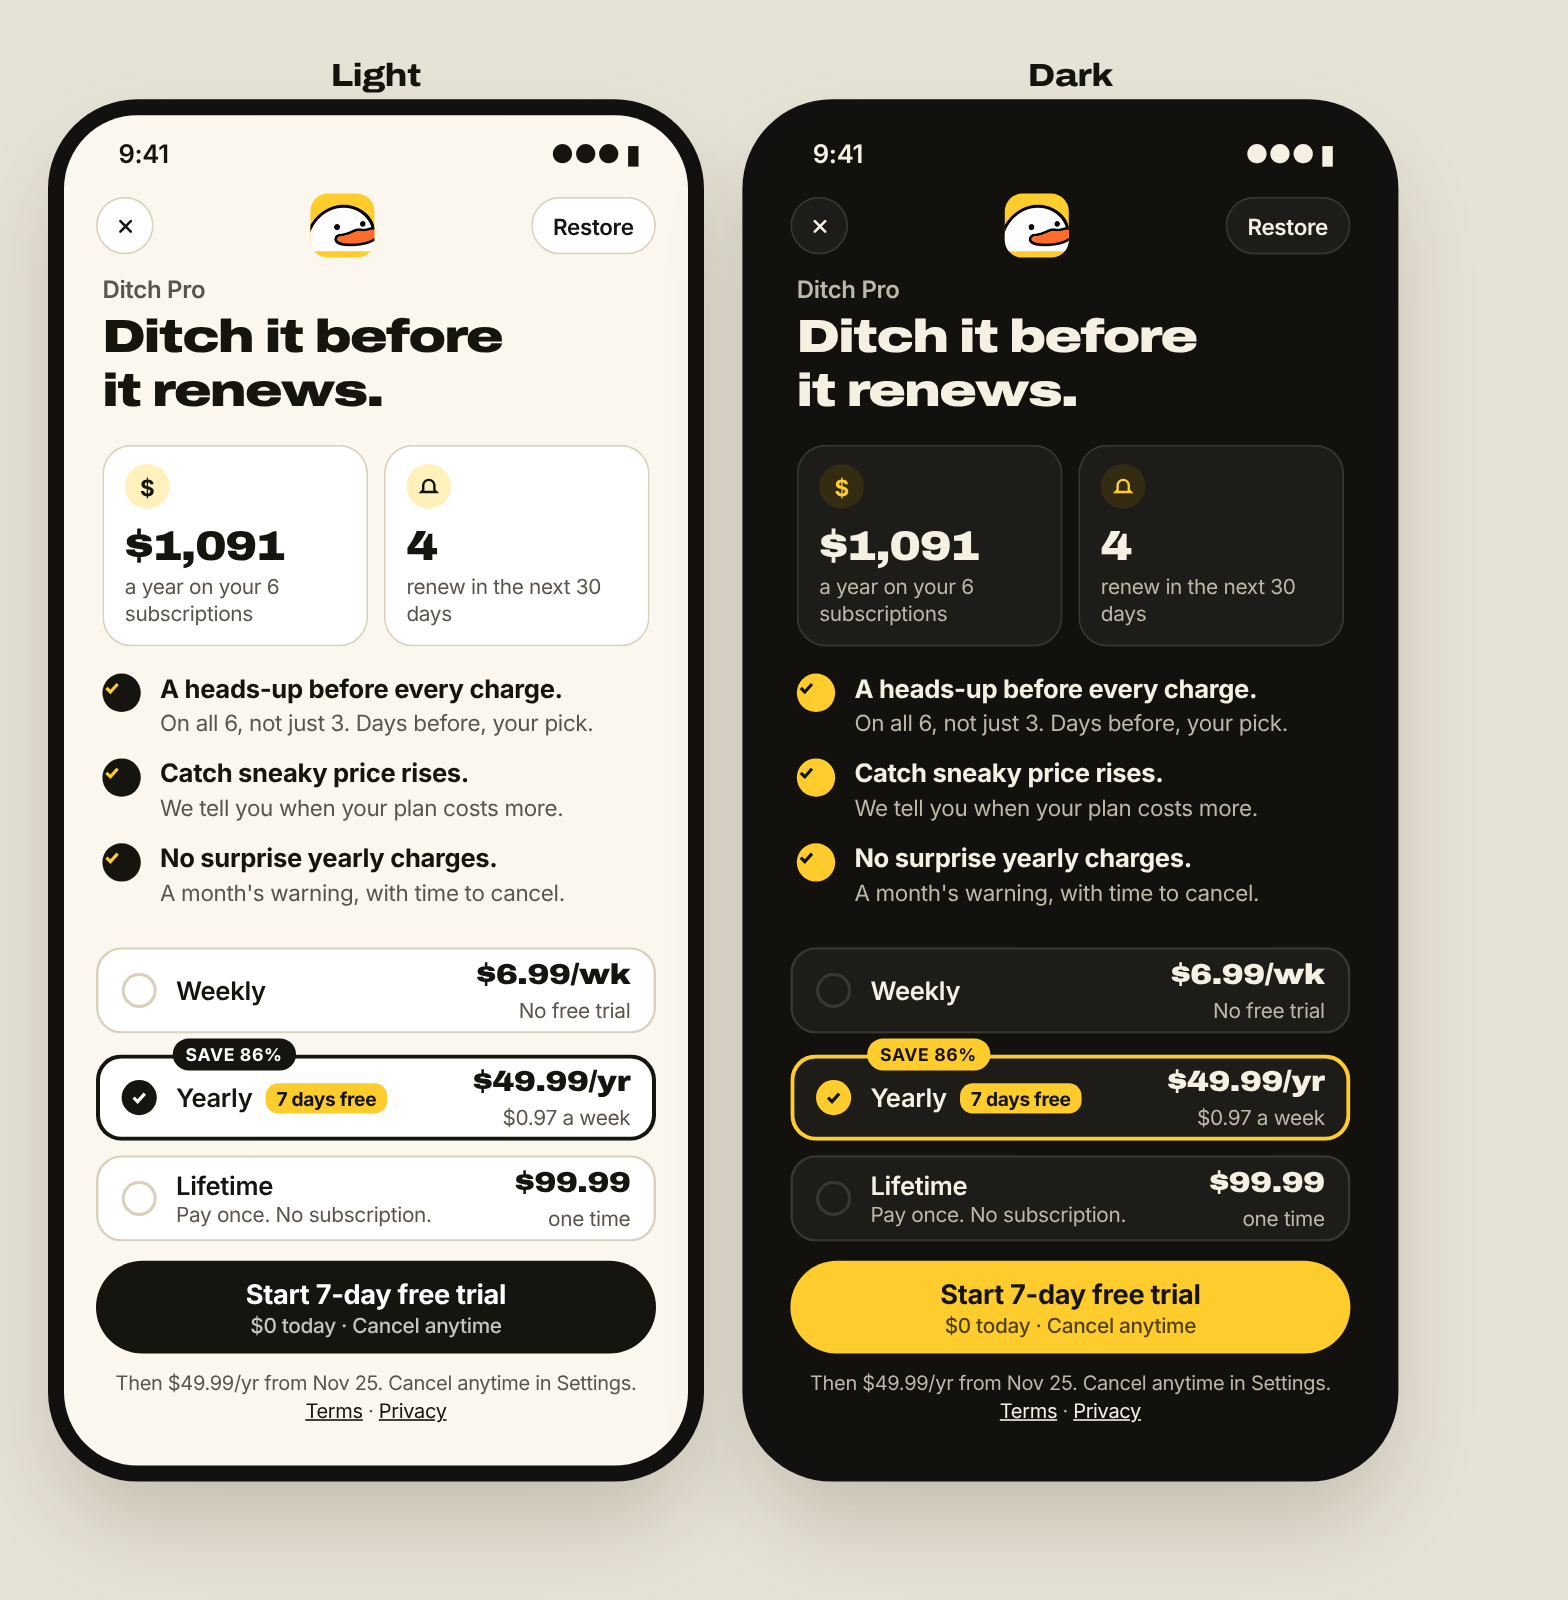
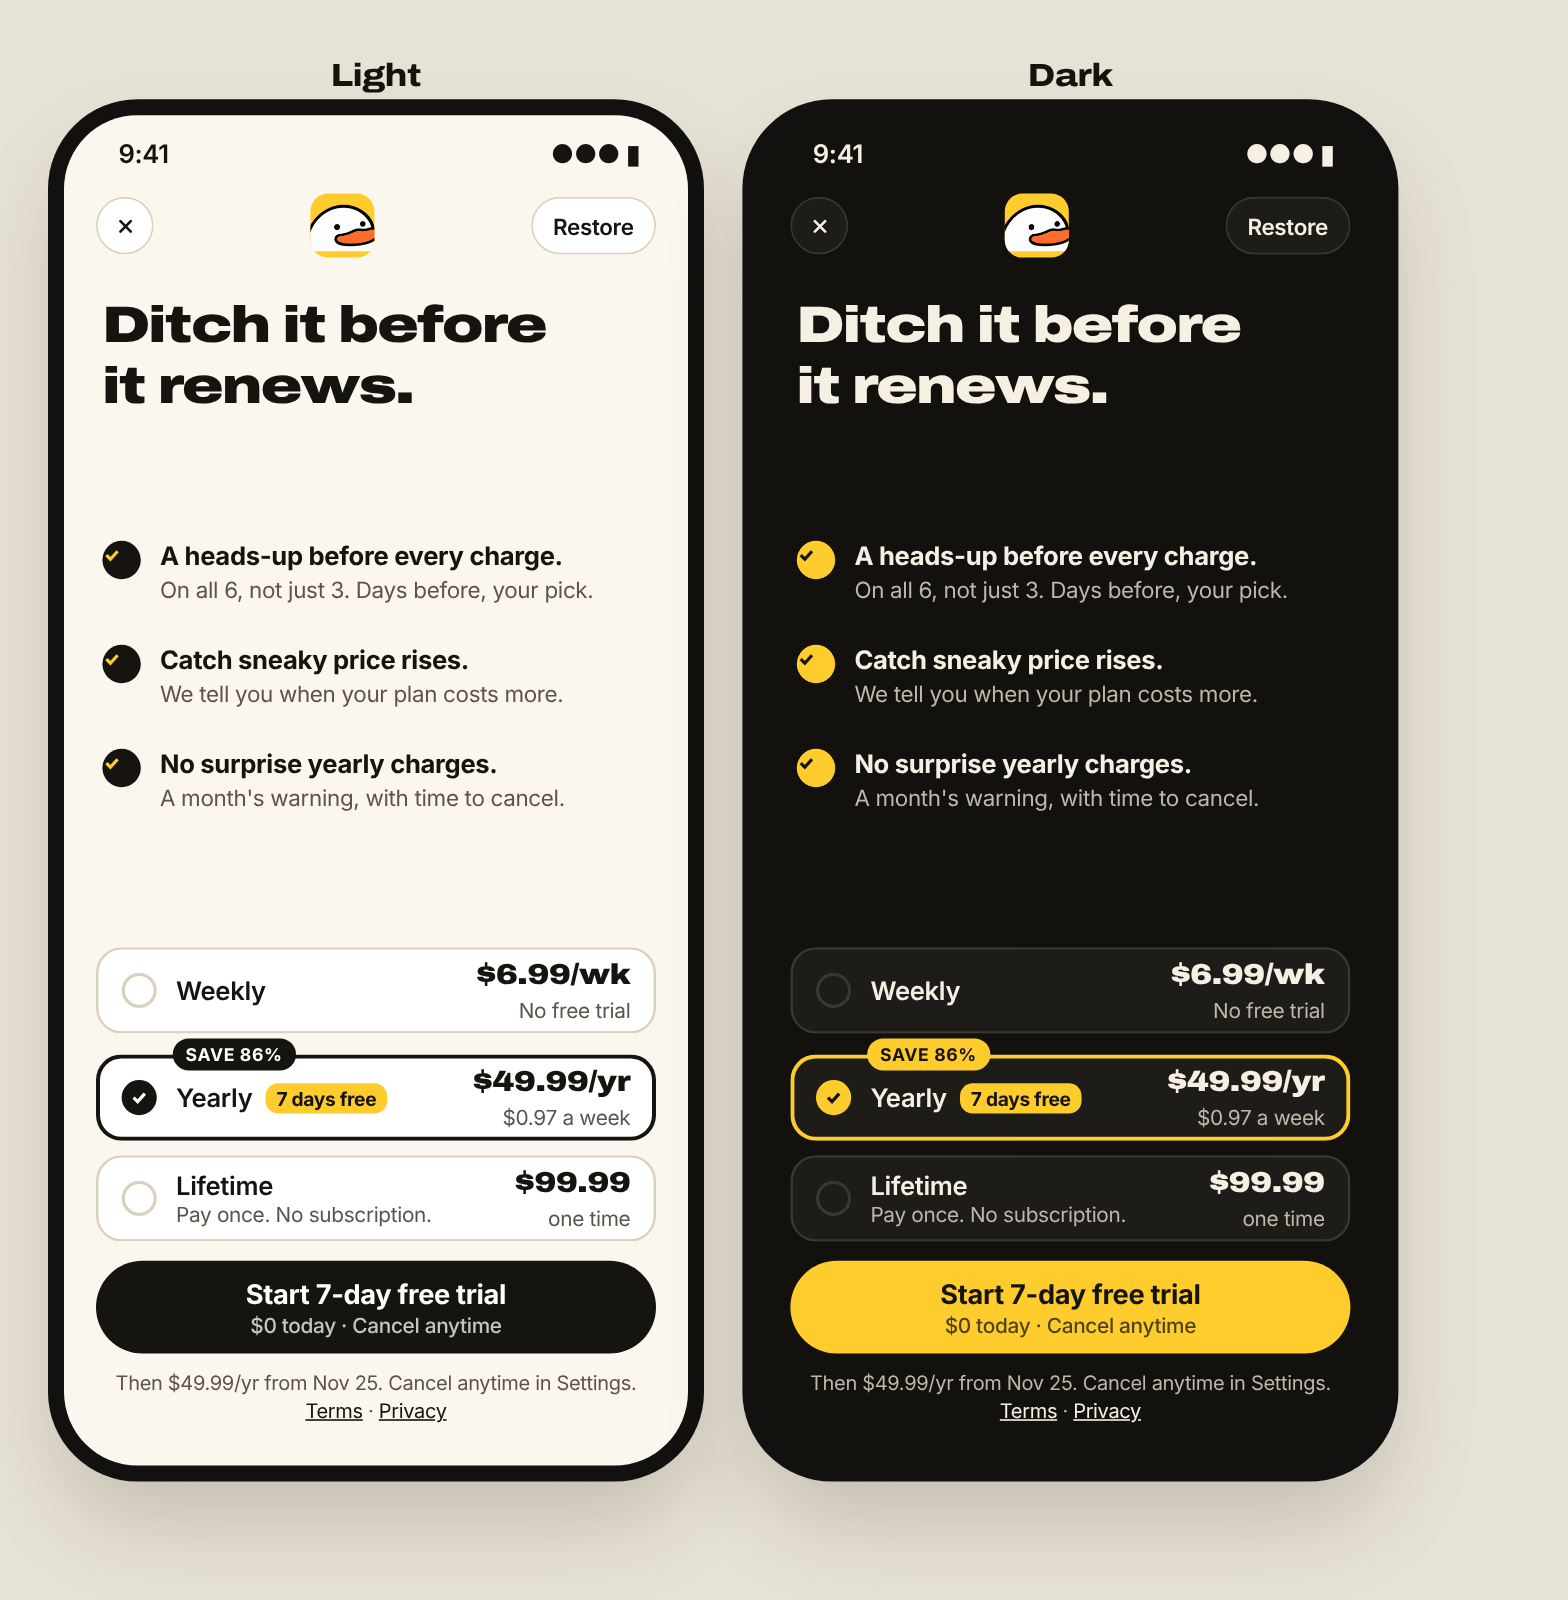
Design v20: simplified to headline + 3 benefits + plans
Claude-Session: https://claude.ai/code/session_01Q8GFjWCZXwnj2nAcxjTkxh

diff --git a/design/v20/paywall.html b/design/v20/paywall.html
@@ -21,13 +21,13 @@ body{background:#E7E2D6;font-family:Inter,sans-serif;letter-spacing:-.2px;-webki
 .icon{width:40px;height:40px;border-radius:11px;background:#FFCC2E;overflow:hidden;position:relative}
 .icon img{position:absolute;width:48px;left:-4px;top:7px}
 .eyebrow{font:600 15px Inter;color:var(--fg2);padding:8px 24px 0}
-.title{font:900 29px/34px Archivo;font-stretch:125%;letter-spacing:-1px;padding:4px 24px 0}
+.title{font:900 32px/38px Archivo;font-stretch:125%;letter-spacing:-1px;padding:4px 24px 0}
 .stats{display:flex;gap:10px;padding:16px 24px 0}
 .stat{flex:1;background:var(--card);border-radius:18px;padding:12px 14px;box-shadow:0 0 0 1px var(--line) inset}
 .si{width:28px;height:28px;border-radius:14px;background:var(--chip);display:flex;align-items:center;justify-content:center;font:800 14px Inter;color:var(--chipFg)}
 .sv{font:900 26px/30px Archivo;font-stretch:115%;margin-top:8px;letter-spacing:-.6px}
 .sl{font:400 13px/17px Inter;color:var(--fg2);margin-top:2px}
-.bens{padding:16px 24px 0;display:flex;flex-direction:column;gap:12px}
+.bens{padding:0 24px;display:flex;flex-direction:column;gap:24px}
 .ben{display:flex;gap:12px}
 .ck{width:24px;height:24px;border-radius:12px;background:var(--tick);display:flex;align-items:center;justify-content:center;flex:none;margin-top:1px}
 .ben b{display:block;font:700 16px/21px Inter}
@@ -50,12 +50,8 @@ body{background:#E7E2D6;font-family:Inter,sans-serif;letter-spacing:-.2px;-webki
 <template id="screen">
  <div class="sb"><span>9:41</span><span>●●● ▮</span></div>
  <div class="bar"><span class="x"><svg width="13" height="13" viewBox="0 0 24 24" fill="none" stroke="currentColor" stroke-width="3" stroke-linecap="round"><path d="M6 6l12 12M18 6L6 18"/></svg></span><span class="icon"><img src="../v12/duck.png"></span><span class="restore">Restore</span></div>
- <div class="eyebrow">Ditch Pro</div>
- <h1 class="title">Ditch it before<br>it renews.</h1>
- <div class="stats">
-  <div class="stat"><div class="si">$</div><div class="sv">$1,091</div><div class="sl">a year on your 6 subscriptions</div></div>
-  <div class="stat"><div class="si"><svg width="14" height="14" viewBox="0 0 24 24" fill="none" stroke="currentColor" stroke-width="2.6"><path d="M6 16V11a6 6 0 0 1 12 0v5l2 2H4z"/></svg></div><div class="sv">4</div><div class="sl">renew in the next 30 days</div></div>
- </div>
+ <h1 class="title" style="padding-top:22px">Ditch it before<br>it renews.</h1>
+ <div class="grow"></div>
  <div class="bens">
   <div class="ben"><span class="ck"><svg width="12" height="12" viewBox="0 0 24 24" fill="none" stroke="var(--tickFg)" stroke-width="4"><path d="M5 12l5 5 9-10"/></svg></span><div><b>A heads-up before every charge.</b><span>On all 6, not just 3. Days before, your pick.</span></div></div>
   <div class="ben"><span class="ck"><svg width="12" height="12" viewBox="0 0 24 24" fill="none" stroke="var(--tickFg)" stroke-width="4"><path d="M5 12l5 5 9-10"/></svg></span><div><b>Catch sneaky price rises.</b><span>We tell you when your plan costs more.</span></div></div>
